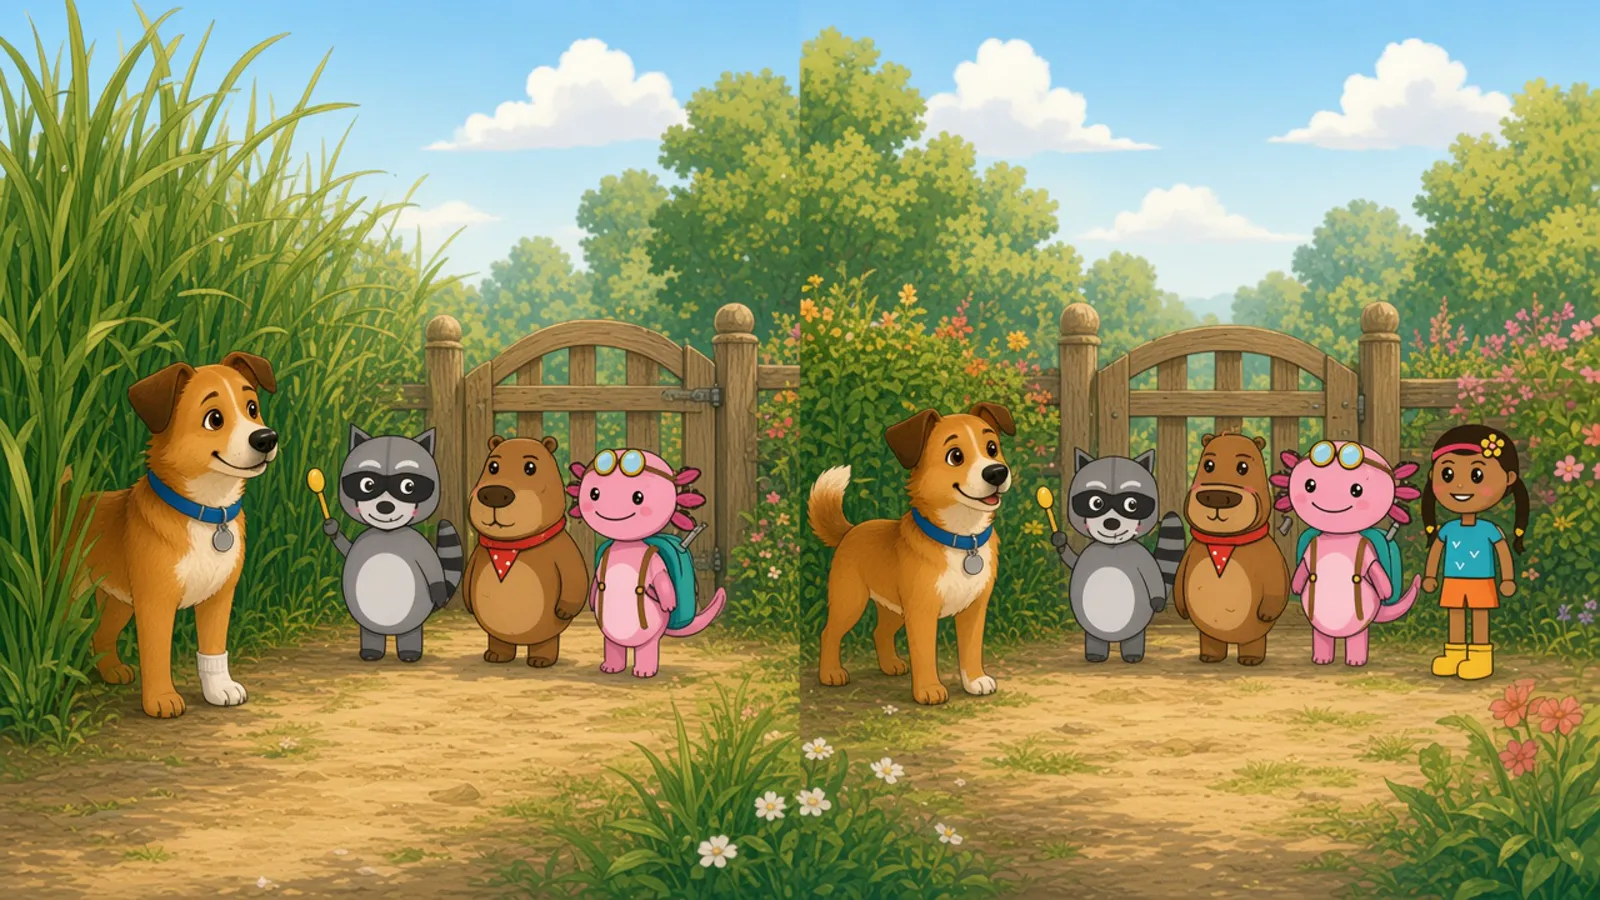
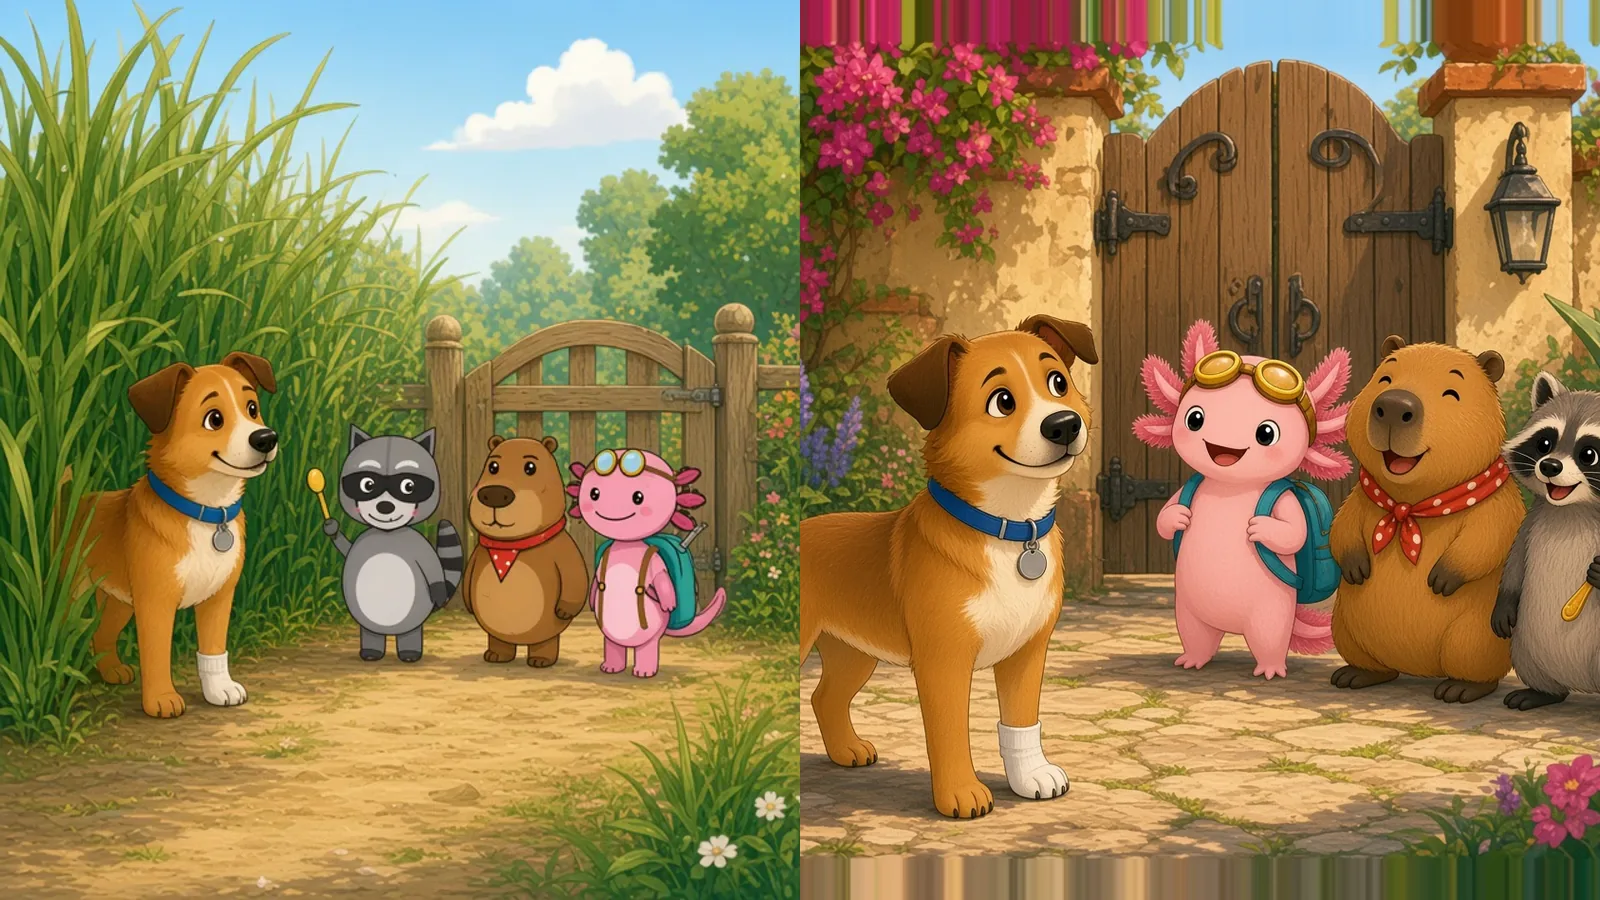
Show each story page its own half, and correct Band 3 scenes.
The wide spread was centered in the page, so the left page showed the join. Each page now shows only its half. Replaced Band 3 halves that put Paula, extra animals, or a second dog in the wrong place, and aligned the three portal stones.

diff --git a/js/pages/story.js b/js/pages/story.js
@@ -16,13 +16,7 @@ export function renderStoryPage(pageData, container, side) {
     const img = document.createElement('img');
     img.src = pageData.spreadImage;
     img.alt = 'Story illustration';
-    img.className = 'spread-image';
-    img.style.width = '200%';
-    img.style.height = '100%';
-    img.style.objectFit = 'cover';
-    img.style.display = 'block';
-    // Position image to show left or right half
-    img.style.marginLeft = side === 'left' ? '0' : '-100%';
+    img.className = side === 'left' ? 'spread-image spread-image--left' : 'spread-image spread-image--right';
     illustration.appendChild(img);
   }
   

diff --git a/styles/book.css b/styles/book.css
@@ -217,10 +217,24 @@
 .scene-illustration {
   flex: 0 0 55%;
   position: relative;
-  display: flex;
-  align-items: center;
-  justify-content: center;
   overflow: hidden;
+}
+
+.spread-image {
+  position: absolute;
+  top: 0;
+  height: 100%;
+  width: 200%;
+  max-width: none;
+  object-fit: cover;
+}
+
+.spread-image--left {
+  left: 0;
+}
+
+.spread-image--right {
+  left: -100%;
 }
 
 .page-text-container {

diff --git a/illustration/band3/README.md b/illustration/band3/README.md
@@ -7,5 +7,7 @@ Stil wie Band 2: `../style-prompt.md`, `../stil-referenz-ds1.jpg`, `../character
 Milo: `milo-reference.jpg` (honigbraun, weiße Brust, weiße linke Vorderpfote, dunkleres Schlappohr, blaues Halsband).
 Ana: `ana-reference.jpg` (grüner Hut, violettes Halstuch).
 
+Einige Story-Hälften sind nach der Sichtprüfung neu gemalt und in die bestehende Doppelseite eingesetzt: Abschied s01 links; Tor s02 rechts; Tuch s04 rechts; zwei Schubkarren s05 rechts; Gewächshaus s08 und s09 rechts; Fenster s10 beide Seiten; Rückgabe s12 rechts; Portalring s13 rechts; drei Steine s14 beide Seiten; Abschied s15 beide Seiten; dieselben drei Steine s16 rechts. Die Leseseite zeigt jeweils nur ihre Hälfte.
+
 Hotspots: [`hotspots.json`](hotspots.json), in `books/band3.js` verdrahtet.
 Die fünf Fehlerbild-Änderungen: Halstuch fehlt, Brille rot, Löffel silbern, Topfblume blau, Schubkarrenrad fehlt. Das Rad wurde im Bild B nachträglich entfernt, damit genau diese Änderung steht.
